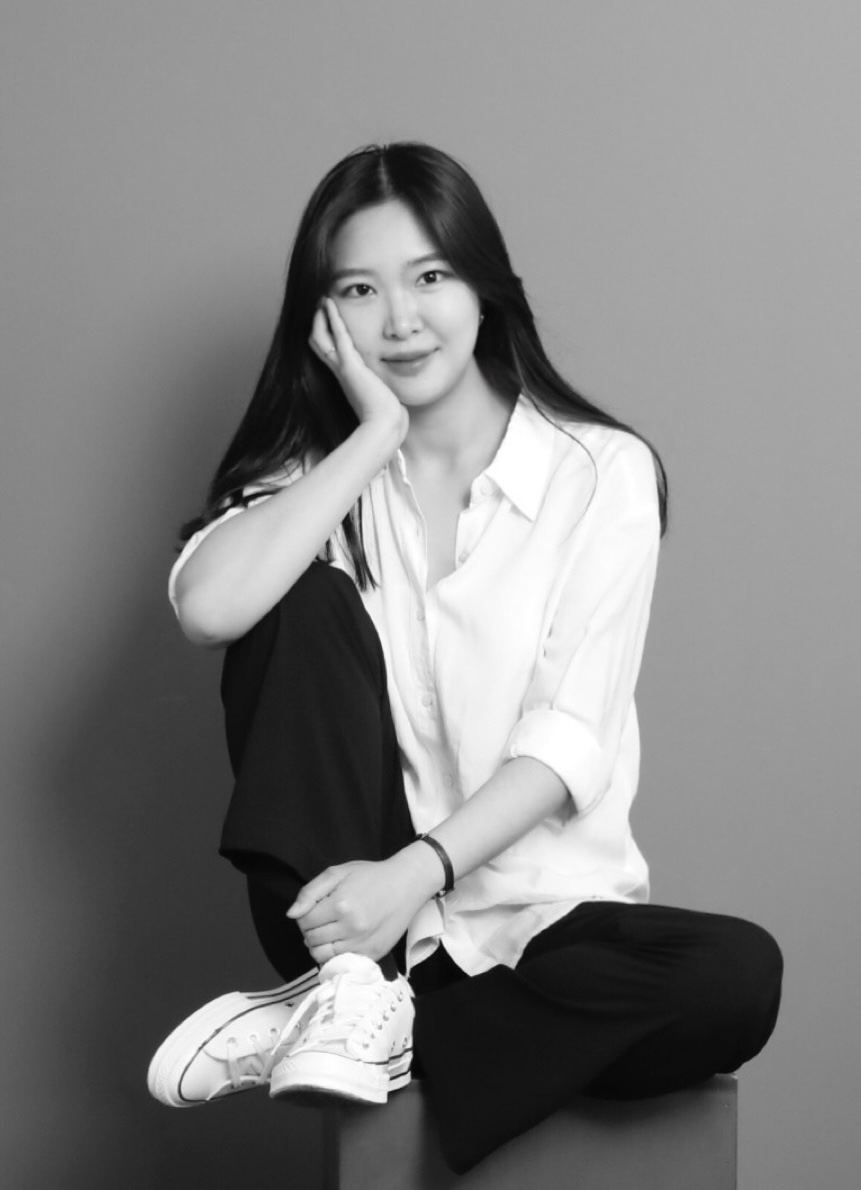
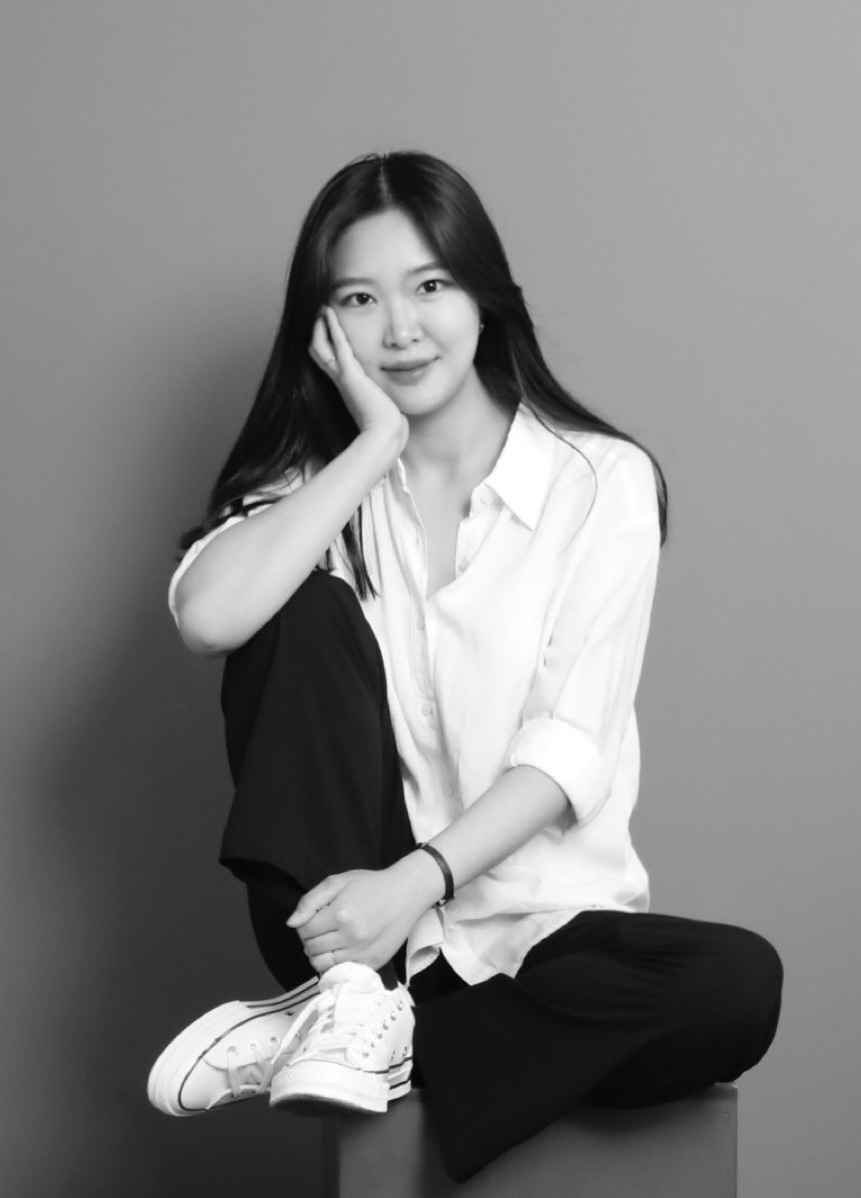
[fix] 프로필사진재수정

diff --git a/css/style.css b/css/style.css
@@ -785,7 +785,7 @@ h1, .h1, h2, .h2, h3, .h3, h4, .h4 {
     padding-top: 20%;
     z-index: 1; }
   .image-stack-v2 img {
-    width: 85%;
+    width: 90%;
     display: block; }
 
 .feature-v3 h3 {
